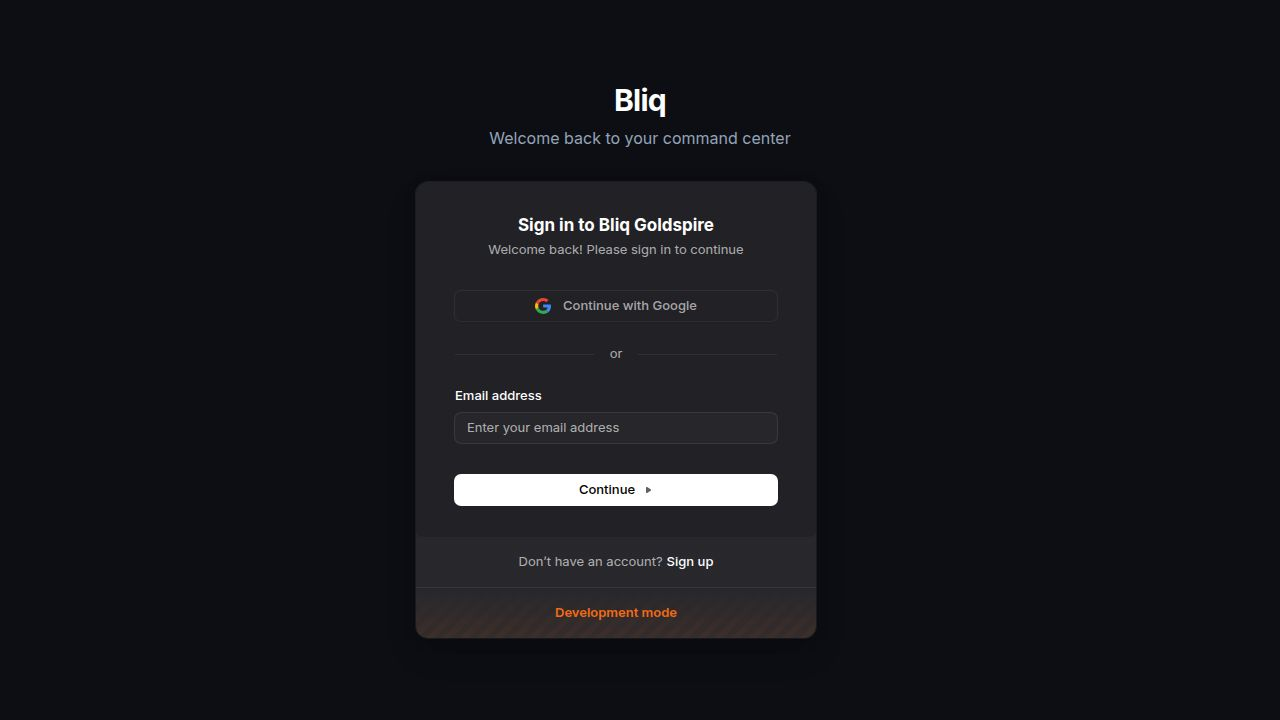
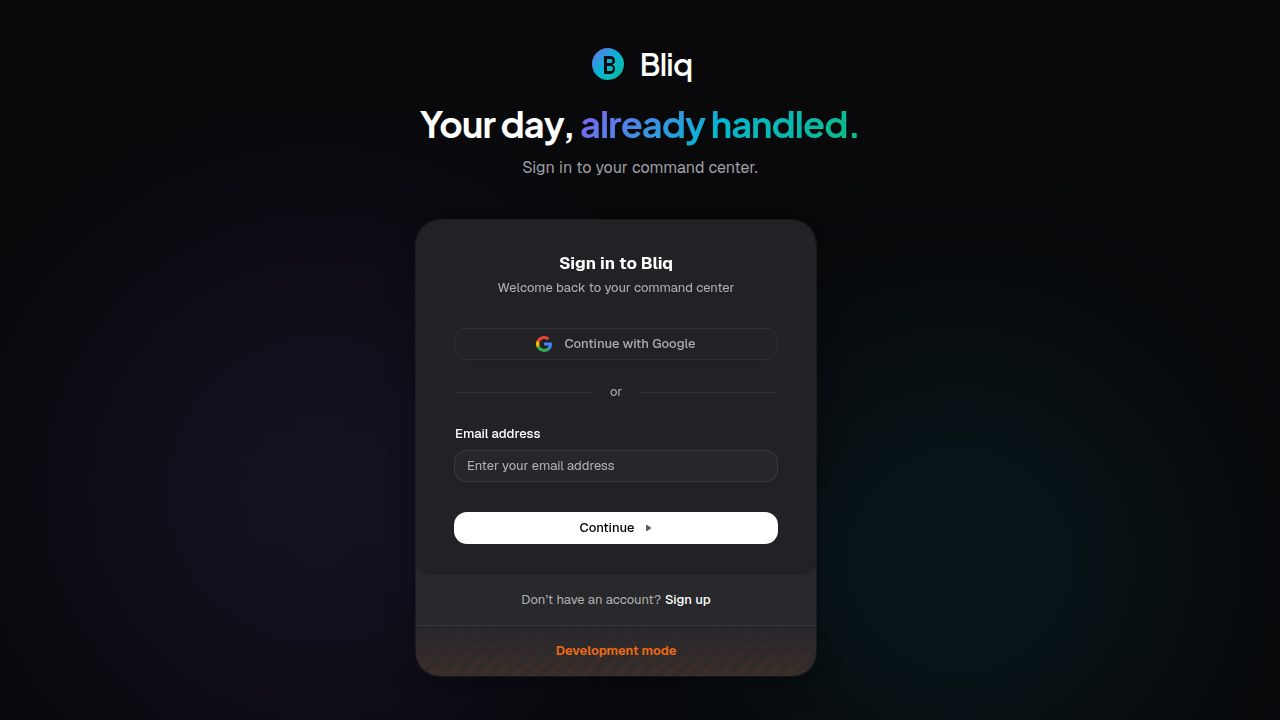
Update dashboard mockups and enable mobile testing
Update mockup component mapping and remove unused opengraph image.

Replit-Commit-Author: Agent
Replit-Commit-Session-Id: 58ee617a-df08-409b-a366-74c270a19246
Replit-Commit-Checkpoint-Type: full_checkpoint
Replit-Commit-Event-Id: 02277b6c-d437-417d-aaff-320f98ec9b9c
Replit-Commit-Screenshot-Url: https://storage.googleapis.com/screenshot-production-us-central1/f994dd0e-a423-48e9-b083-1127d8ba7b40/58ee617a-df08-409b-a366-74c270a19246/usDQhFr
Replit-Helium-Checkpoint-Created: true

diff --git a/artifacts/mockup-sandbox/src/.generated/mockup-components.ts b/artifacts/mockup-sandbox/src/.generated/mockup-components.ts
@@ -1,10 +1,10 @@
 // This file is auto-generated by mockupPreviewPlugin.ts.
 type ModuleMap = Record<string, () => Promise<Record<string, unknown>>>;
 export const modules: ModuleMap = {
-  "./components/mockups/bliq-dashboards/Atrium.tsx": () => import("../components/mockups/bliq-dashboards/Atrium.tsx"),
-  "./components/mockups/bliq-dashboards/Cockpit.tsx": () => import("../components/mockups/bliq-dashboards/Cockpit.tsx"),
-  "./components/mockups/bliq-dashboards/Concierge.tsx": () => import("../components/mockups/bliq-dashboards/Concierge.tsx"),
   "./components/mockups/brand-explorations/Atelier.tsx": () => import("../components/mockups/brand-explorations/Atelier.tsx"),
   "./components/mockups/brand-explorations/Aurora.tsx": () => import("../components/mockups/brand-explorations/Aurora.tsx"),
-  "./components/mockups/brand-explorations/Pulse.tsx": () => import("../components/mockups/brand-explorations/Pulse.tsx")
+  "./components/mockups/brand-explorations/Pulse.tsx": () => import("../components/mockups/brand-explorations/Pulse.tsx"),
+  "./components/mockups/bliq-dashboards/Atrium.tsx": () => import("../components/mockups/bliq-dashboards/Atrium.tsx"),
+  "./components/mockups/bliq-dashboards/Cockpit.tsx": () => import("../components/mockups/bliq-dashboards/Cockpit.tsx"),
+  "./components/mockups/bliq-dashboards/Concierge.tsx": () => import("../components/mockups/bliq-dashboards/Concierge.tsx")
 };